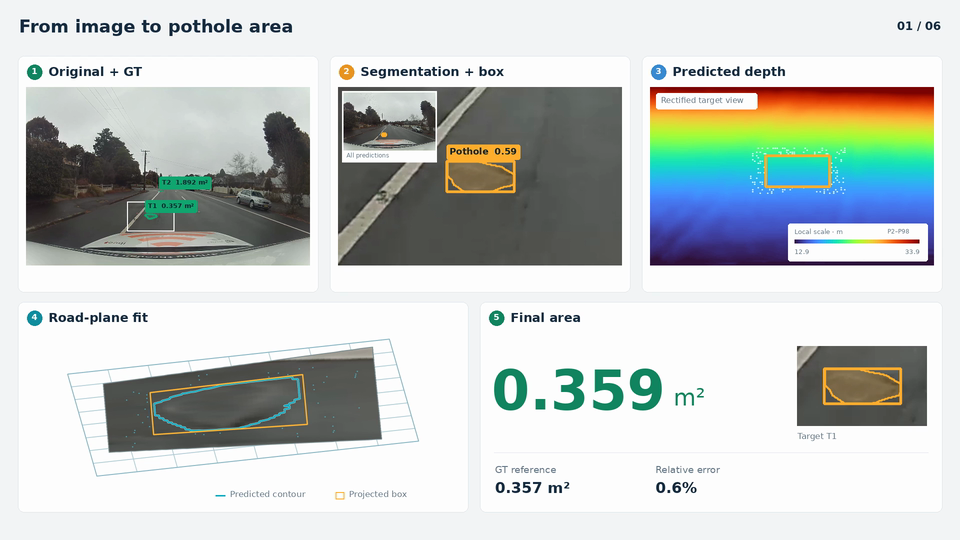
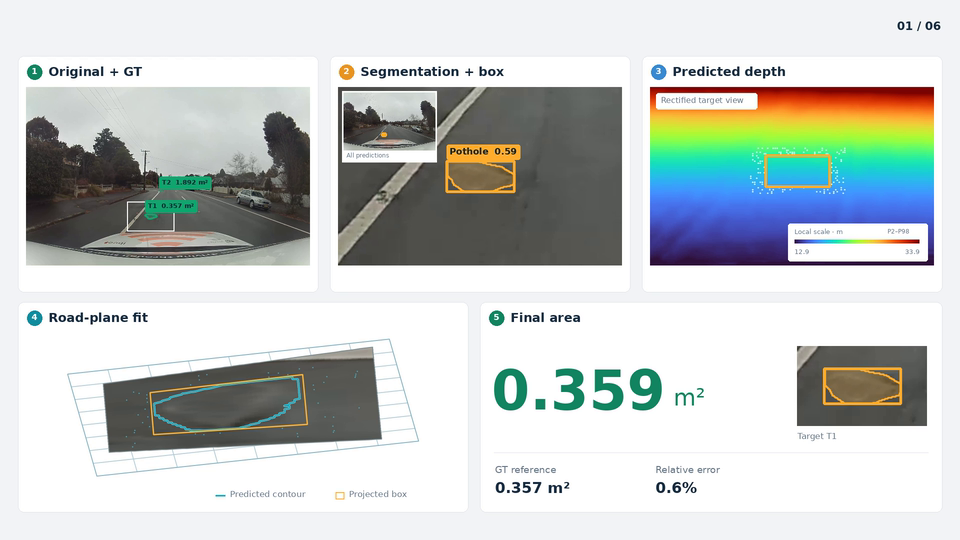
Remove demo headline and sync renamed repository links

diff --git a/scripts/make_demo_gifs.py b/scripts/make_demo_gifs.py
@@ -45,11 +45,14 @@ AREA_CASES = [
 ]
 
 CLIPS = [
-    {"file": "area-pipeline.gif", "source": "area", "start_seconds": 0, "duration_seconds": 8, "width": 960, "fps": 10, "case_ids": ["01", "02"], "caption": "RGB, instance segmentation, predicted depth, fitted road plane and calibrated box area; examples 01–02."},
+    {"file": "area-pipeline.gif", "source": "area", "start_seconds": 0, "duration_seconds": 8, "width": 960, "fps": 10, "case_ids": ["01", "02"], "remove_header_title": True, "caption": "RGB, instance segmentation, predicted depth, fitted road plane and calibrated box area; examples 01–02. Header title removed."},
     {"file": "area-geometry.gif", "source": "area", "start_seconds": 8, "duration_seconds": 8, "width": 800, "fps": 10, "case_ids": ["03", "04"], "caption": "The same five-panel area pipeline on examples 03–04."},
     {"file": "area-multi-object.gif", "source": "area", "start_seconds": 16, "duration_seconds": 8, "width": 800, "fps": 10, "case_ids": ["05", "06"], "caption": "Multi-object scenes; the final area refers to the selected matched target, examples 05–06."},
     {"file": "segmentation-comparison.gif", "source": "recognition", "start_seconds": 0, "duration_seconds": 6, "width": 800, "fps": 10, "sample": "Overcast/camera_4804port_a_cam_1-1688437343.197702907", "caption": "Manual GT versus frozen ACSH prediction; full field of view followed by the same enlarged ROI."},
 ]
+
+# At 960 pixels wide, this region contains only the headline above the panels.
+HEADER_TITLE_FILTER = "drawbox=x=16:y=12:w=450:h=32:color=0xf3f5f7:t=fill"
 
 
 def run(*args):
@@ -90,11 +93,19 @@ def main():
     assets = []
     for clip in CLIPS:
         output = args.output_dir / clip["file"]
+        palette_output = "[base]" if clip.get("remove_header_title") else "[out]"
         filters = (
             f"[0:v]fps={clip['fps']},scale={clip['width']}:-1:flags=lanczos,split[a][b];"
             "[a]palettegen=max_colors=192:stats_mode=diff[p];"
-            "[b][p]paletteuse=dither=bayer:bayer_scale=3:diff_mode=rectangle[out]"
+            f"[b][p]paletteuse=dither=bayer:bayer_scale=3:diff_mode=rectangle{palette_output}"
         )
+        if clip.get("remove_header_title"):
+            # Fill only the headline region above the five panels.
+            filters += (
+                f";[base]format=rgb24,{HEADER_TITLE_FILTER},split[c][d];"
+                "[c]palettegen=max_colors=256:reserve_transparent=0:stats_mode=full[q];"
+                "[d][q]paletteuse=dither=none[out]"
+            )
         run("ffmpeg", "-y", "-hide_banner", "-loglevel", "error", "-threads", "4",
             "-ss", str(clip["start_seconds"]), "-t", str(clip["duration_seconds"]),
             "-i", str(paths[clip["source"]]), "-filter_complex_threads", "1",
@@ -112,8 +123,8 @@ def main():
 
     poster = args.output_dir / "area-pipeline-preview.png"
     run("ffmpeg", "-y", "-hide_banner", "-loglevel", "error", "-ss", "2", "-i", str(paths["area"]),
-        "-frames:v", "1", "-vf", "scale=960:-1:flags=lanczos", "-threads", "1", str(poster))
-    assets.append({"file": poster.name, "source": "area", "timestamp_seconds": 2, "width": 960, "height": 540, "bytes": poster.stat().st_size, "sha256": sha256(poster), "caption": "Unmodified final v3 example 01, downscaled for a static preview."})
+        "-frames:v", "1", "-vf", f"scale=960:-1:flags=lanczos,{HEADER_TITLE_FILTER}", "-threads", "1", str(poster))
+    assets.append({"file": poster.name, "source": "area", "timestamp_seconds": 2, "width": 960, "height": 540, "remove_header_title": True, "bytes": poster.stat().st_size, "sha256": sha256(poster), "caption": "Final v3 example 01, downscaled for a static preview with the header title removed."})
 
     manifest = {
         "schema_version": 1,
@@ -132,7 +143,7 @@ def main():
             "reference": "LiDAR-derived evaluation reference areas, not surveyed ground truth; used only for comparison.",
             "plane_panel": "Native rectified RGB projected onto the actual fitted road plane, predicted mask contour, unmodified SVD support points and projected-box outline; appearance projection, not cavity reconstruction.",
             "depth_panel": "Frozen monocular predicted metric depth, not GT depth; per-example finite-positive P2–P98 display scale, fixed within each example.",
-            "transforms": "Temporal extraction, 24-to-10 fps sampling, proportional Lanczos downscaling and GIF palette quantization only. Original predictions, numbers, panels and timing are preserved.",
+            "transforms": "Temporal extraction, 24-to-10 fps sampling, proportional Lanczos downscaling and GIF palette quantization. The README GIF and static preview have the header title removed using a background fill at output x=16,y=12,width=450,height=32. Original predictions, numbers, panels, frame counter and timing are preserved.",
         },
         "area_cases": [
             {"case_id": case_id, "sample": sample, "source_start_seconds": i * 4, "source_duration_seconds": 4, "reference_area_m2": reference, "estimated_area_m2": estimate}

diff --git a/README.md b/README.md
@@ -4,7 +4,7 @@
 
 <p align="center">
   <a href="#quick-start"><img src="https://img.shields.io/badge/Python-3.10%2B-3776AB?style=flat-square&amp;logo=python&amp;logoColor=white" alt="Python 3.10+"></a>
-  <a href="https://github.com/Wonder-How/potholes_area_demo.github.io/actions/workflows/ci.yml"><img src="https://github.com/Wonder-How/potholes_area_demo.github.io/actions/workflows/ci.yml/badge.svg" alt="Geometry and CLI checks"></a>
+  <a href="https://github.com/Wonder-How/potholes_area/actions/workflows/ci.yml"><img src="https://github.com/Wonder-How/potholes_area/actions/workflows/ci.yml/badge.svg" alt="Geometry and CLI checks"></a>
   <a href="LICENSE"><img src="https://img.shields.io/badge/Code-AGPL--3.0-6F77C5?style=flat-square" alt="Code license AGPL-3.0"></a>
   <a href="README.zh-CN.md"><img src="https://img.shields.io/badge/文档-简体中文-486778?style=flat-square" alt="简体中文文档"></a>
 </p>
@@ -49,7 +49,7 @@ The core package also accepts existing boxes and rectified depth arrays, so geom
 Python 3.10+; Python 3.11 was used for release verification.
 
 ```bash
-git clone https://github.com/Wonder-How/potholes_area_demo.github.io.git pothole-measurement
+git clone https://github.com/Wonder-How/potholes_area.git pothole-measurement
 cd pothole-measurement
 python -m venv .venv
 source .venv/bin/activate
@@ -144,7 +144,7 @@ The accompanying manuscript is currently unpublished; publication metadata will 
   author = {Wang, Dehao and Zhu, Haohang and Xu, Bowen and Xu, Yiwen and Liu, Kaiqi},
   year   = {2026},
   note   = {Manuscript},
-  url    = {https://github.com/Wonder-How/potholes_area_demo.github.io}
+  url    = {https://github.com/Wonder-How/potholes_area}
 }
 ```
 

diff --git a/docs/PROVENANCE.md b/docs/PROVENANCE.md
@@ -24,7 +24,7 @@ The “research source” column uses relative archive names for traceability. I
 | `configs/m2s-camera.json` | `p1130_area_validation/m2s_lidar_reference_area.py`; originally the M2S-RoAD `toimage.py` calibration example | Separate fixed camera constants from the implementation |
 | `configs/m2s-calibration.json` | `m2s_improved_end_to_end/calibration.json` | Preserve frozen calibration coefficients |
 | `weights/acsh-segmentation.pt` | `p2_acmix_segrefine_20261017/parallel_stable_p2_acmix_s1130/weights/best.pt` | Rename for distribution; do not modify checkpoint contents |
-| `scripts/make_demo_gifs.py`, `docs/assets/*.gif` | Previously rendered area and recognition demonstration videos | Extract temporal intervals, sample frames, resize proportionally and quantize GIF palettes |
+| `scripts/make_demo_gifs.py`, `docs/assets/*.gif` | Previously rendered area and recognition demonstration videos | Extract temporal intervals, sample frames, resize proportionally and quantize GIF palettes; remove the header title in the README GIF and its static preview |
 | `docs/assets/paper/structure_revised.png`, `structure_revised.pdf` | Current manuscript `Figure/structure_revised.png` and `Figure/structure_revised.pdf` | Exact file copies of the original framework figure; no redrawing or restyling |
 
 The archived checkpoint contains Python class references to the original module names. Compatibility aliases retain those names while the release code lives in `pothole_measurement.models`. Changing class definitions or silently substituting a different architecture can make a checkpoint load incorrectly even when a filename is unchanged.

diff --git a/README.zh-CN.md b/README.zh-CN.md
@@ -23,7 +23,7 @@
 需要 Python 3.10 或更高版本；发布验证使用 Python 3.11。
 
 ```bash
-git clone https://github.com/Wonder-How/potholes_area_demo.github.io.git pothole-measurement
+git clone https://github.com/Wonder-How/potholes_area.git pothole-measurement
 cd pothole-measurement
 python -m venv .venv
 source .venv/bin/activate
